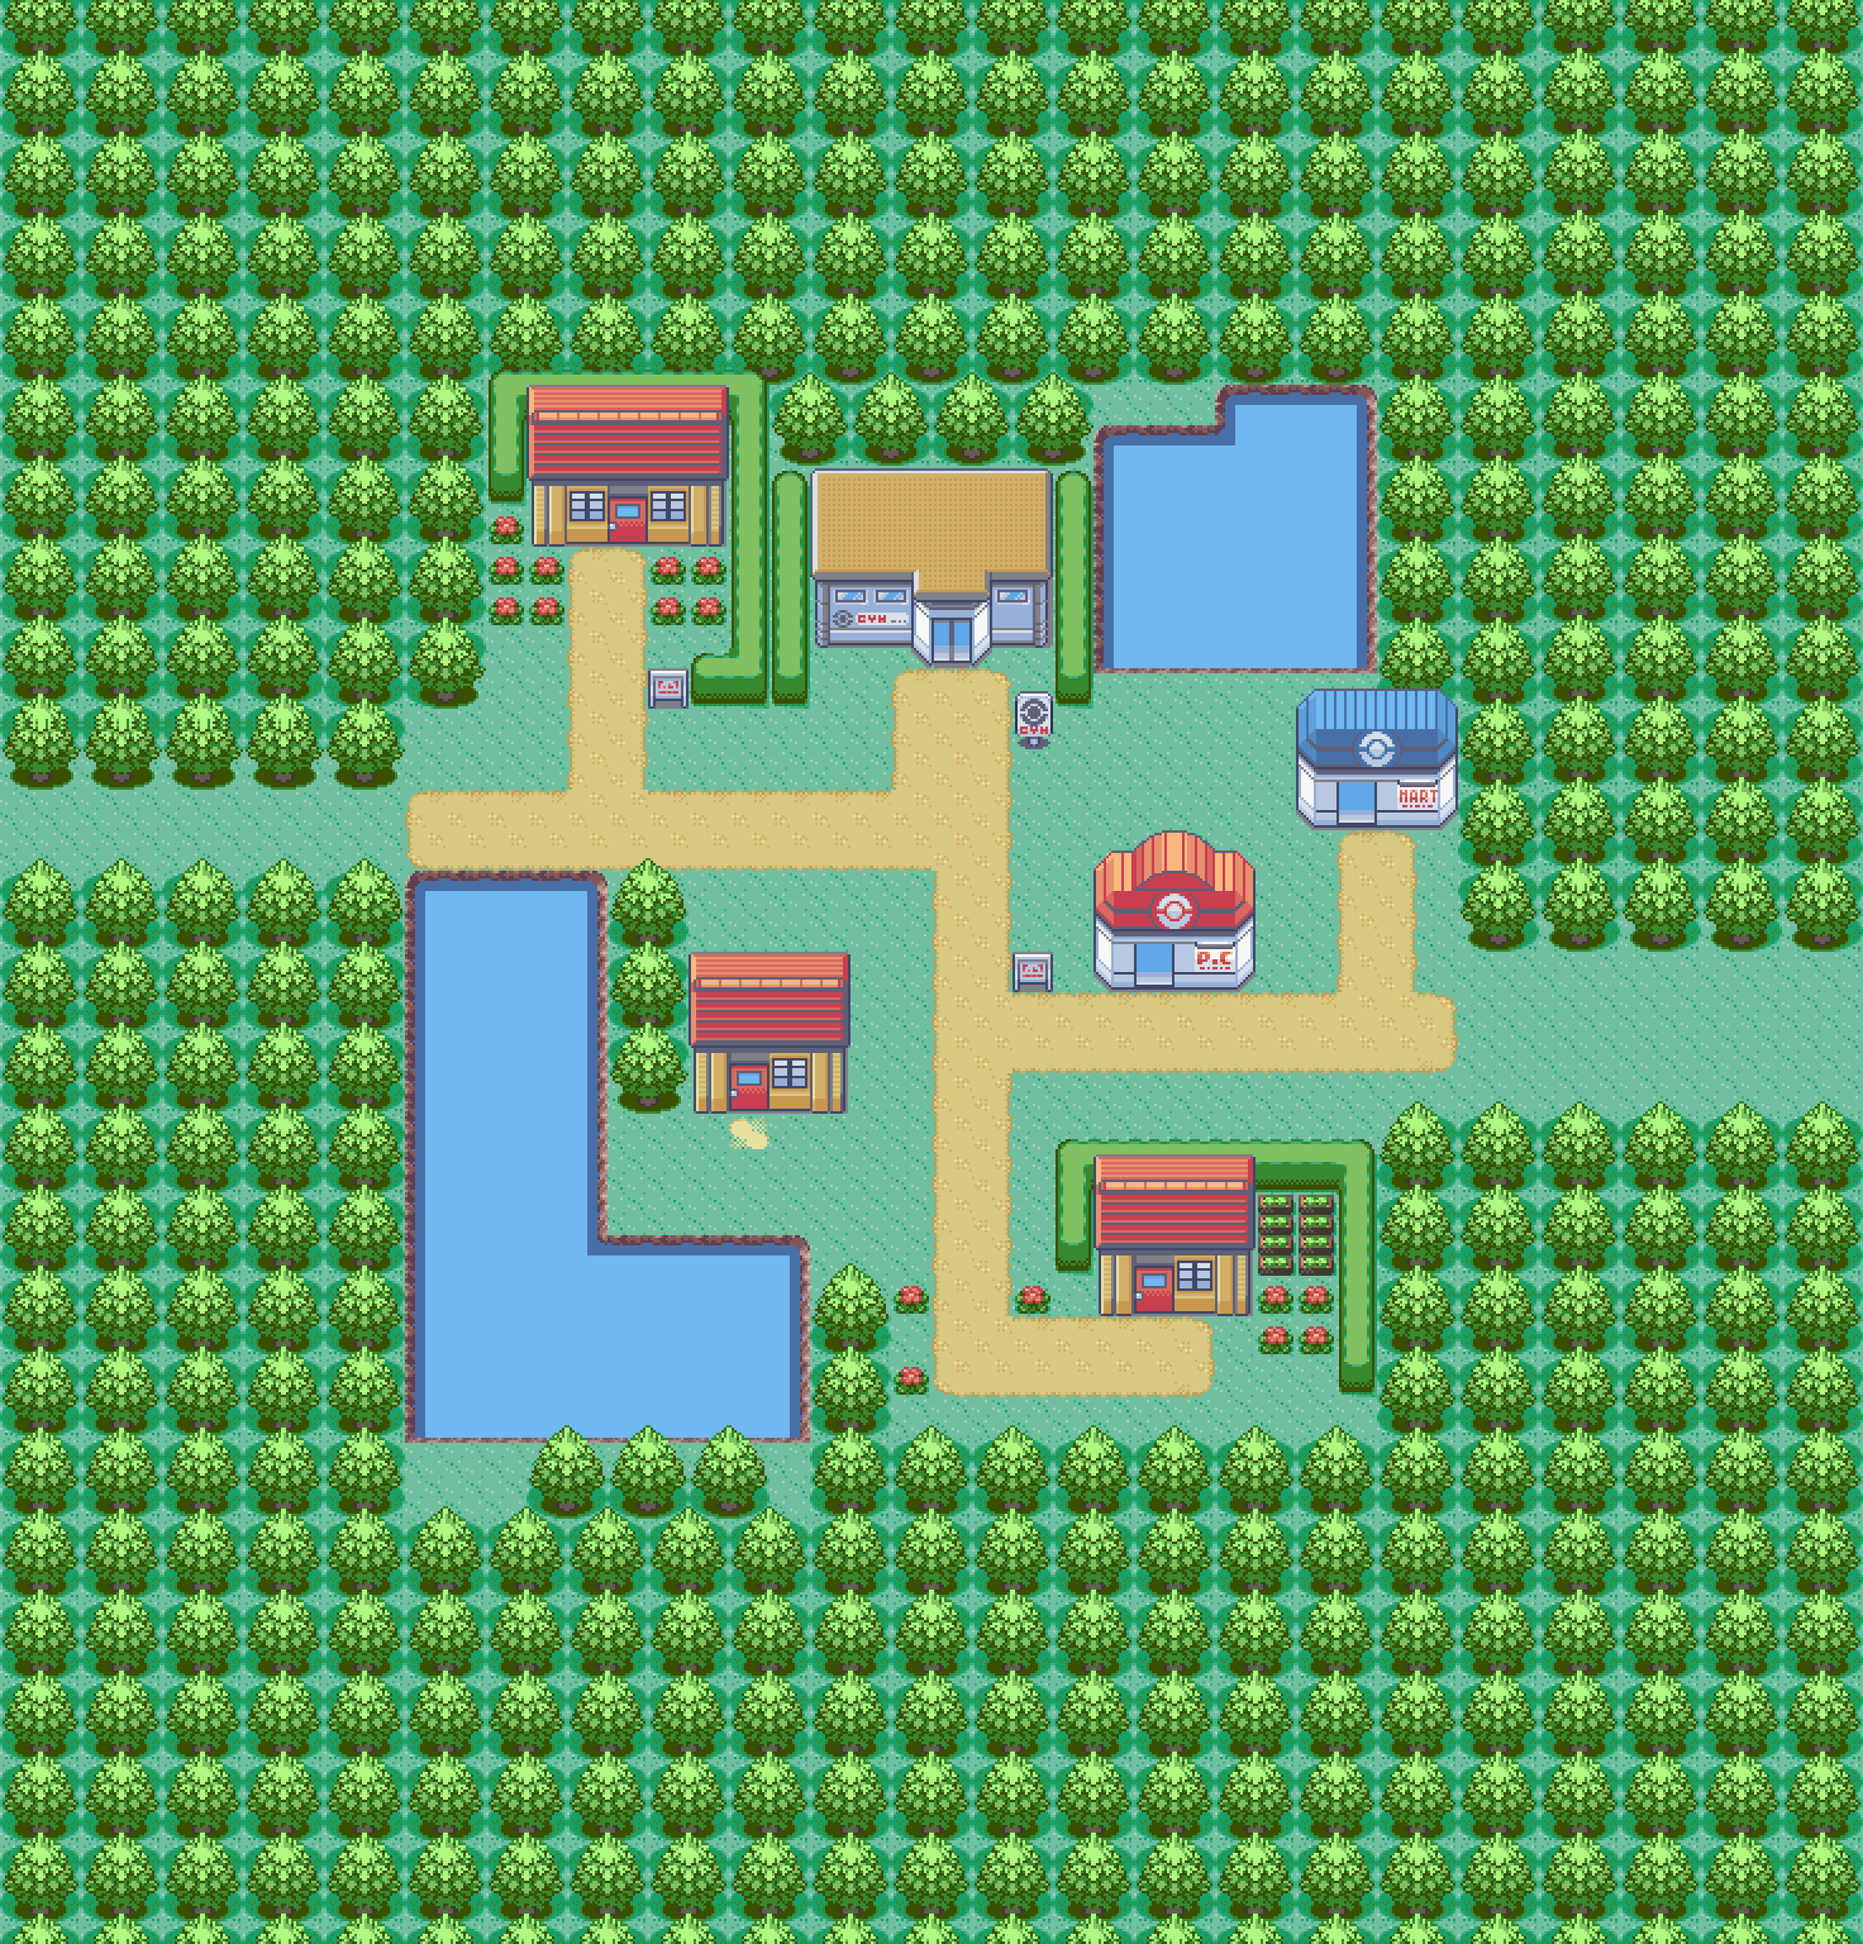
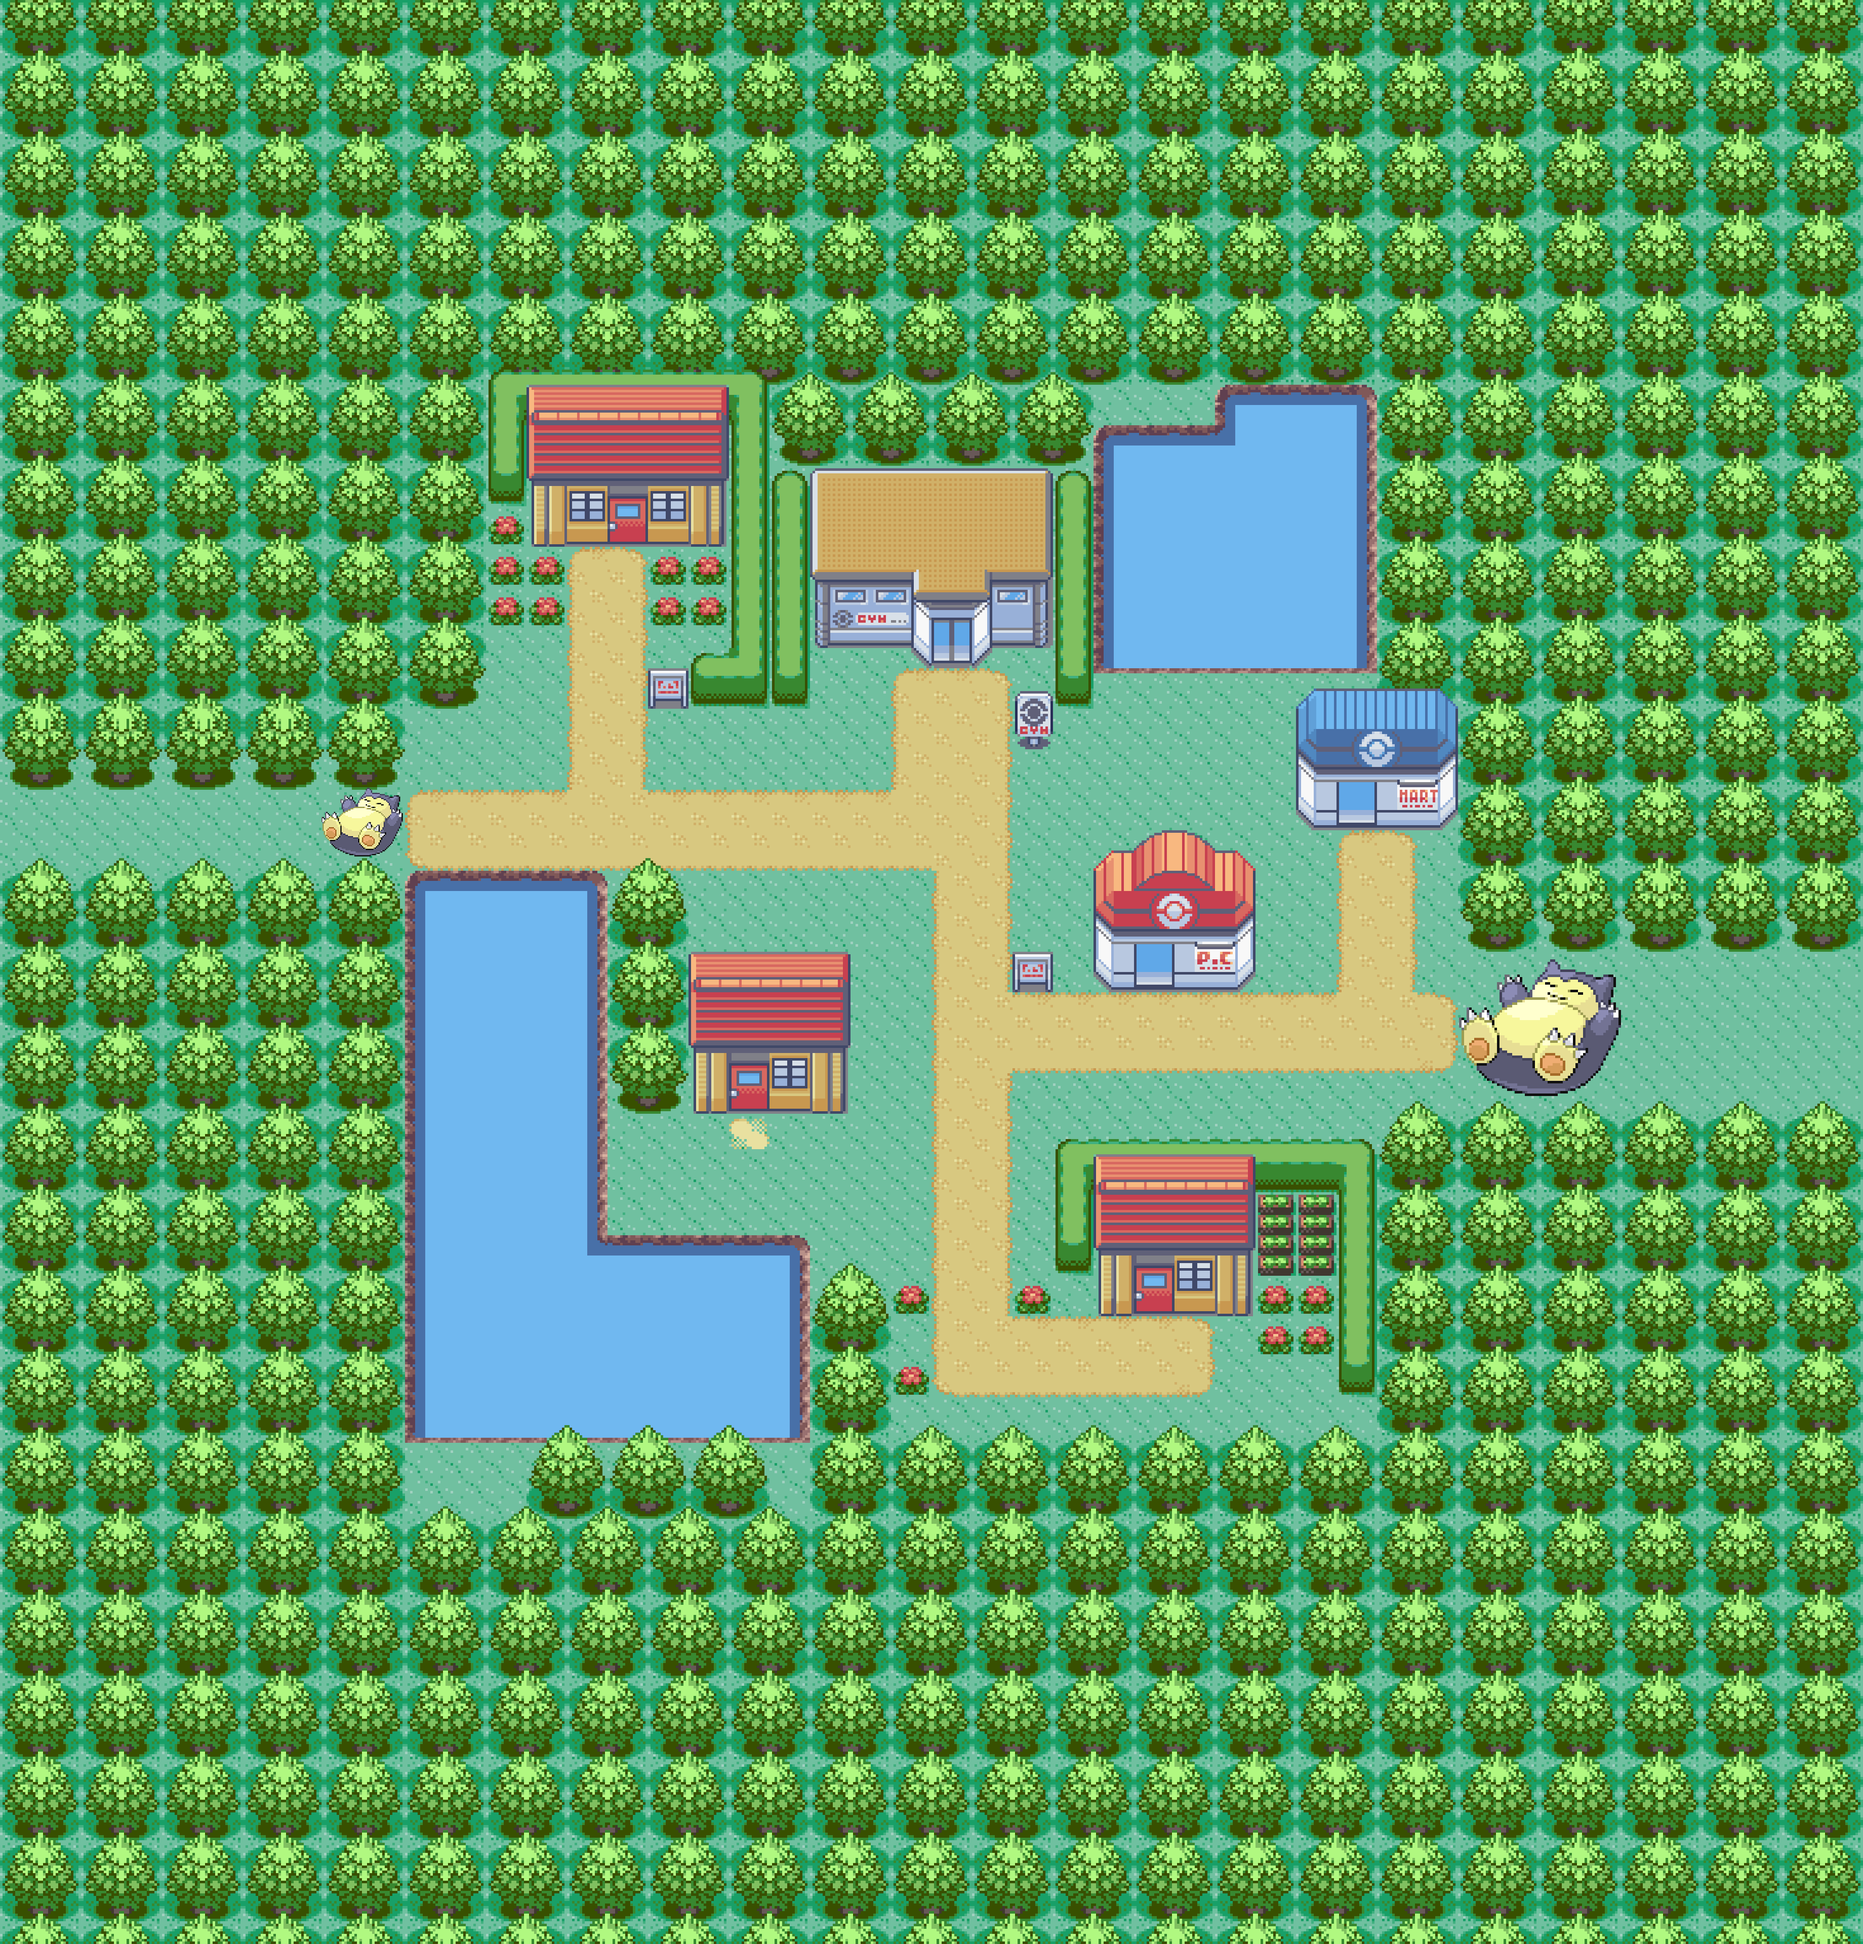
Updated map with obstacles and error noise

Changed region(s): [[0.7812, 0.5, 0.875, 0.5625], [0.1562, 0.4062, 0.2188, 0.4375]]

diff --git a/scripts/index.js b/scripts/index.js
@@ -854,14 +854,25 @@ function hideVerticalMenu() {
 }
 
 function positionError() {
-  console.log("you can't go here!");
+  const bump = new Audio("audio/bump.wav");
+  bump.play();
+}
+
+function door() {
+  window.location.href = "https://linktr.ee/mattwu17";
 }
 
 function moveUp() {
+  // set the character's appearance
+  const char = document.getElementById("char");
+  char.src = "images/back1.png";
+
   // positioning logic
   var newY = yCoord - 1;
 
-  if (map[newY][xCoord] != o) {
+  if (map[newY][xCoord] == d) {
+    door();
+  } else if (map[newY][xCoord] != o) {
     positionError();
   } else {
     // update and store coordinate
@@ -889,10 +900,16 @@ function moveUp() {
 }
 
 function moveDown() {
+  // set the character's appearance
+  const char = document.getElementById("char");
+  char.src = "images/front1.png";
+
   // positioning logic
   var newY = yCoord + 1;
 
-  if (map[newY][xCoord] != o) {
+  if (map[newY][xCoord] == d) {
+    door();
+  } else if (map[newY][xCoord] != o) {
     positionError();
   } else {
     // update and store coordinate
@@ -920,10 +937,16 @@ function moveDown() {
 }
 
 function moveLeft() {
+  // set the character's appearance
+  const char = document.getElementById("char");
+  char.src = "images/left1.png";
+
   // positioning logic
   var newX = xCoord - 1;
 
-  if (map[yCoord][newX] != o) {
+  if (map[yCoord][newX] == d) {
+    door();
+  } else if (map[yCoord][newX] != o) {
     positionError();
   } else {
     // update and store coord
@@ -951,10 +974,16 @@ function moveLeft() {
 }
 
 function moveRight() {
+  // set the character's appearance
+  const char = document.getElementById("char");
+  char.src = "images/right1.png";
+
   // positioning logic
   var newX = xCoord + 1;
 
-  if (map[yCoord][newX] != o) {
+  if (map[yCoord][newX] == d) {
+    door();
+  } else if (map[yCoord][newX] != o) {
     positionError();
   } else {
     // update and store coord

diff --git a/index.html b/index.html
@@ -11,7 +11,12 @@
   </head>
   <body>
     <!--audio for the song that plays on the page-->
-    <audio id="song" src="audio/route101.mp3" preload="auto"></audio>
+    <audio
+      id="song"
+      src="audio/route101.mp3"
+      volumte="0.5"
+      preload="auto"
+    ></audio>
 
     <!--images to define the map and character-->
     <img src="images/map.png" id="map" />
